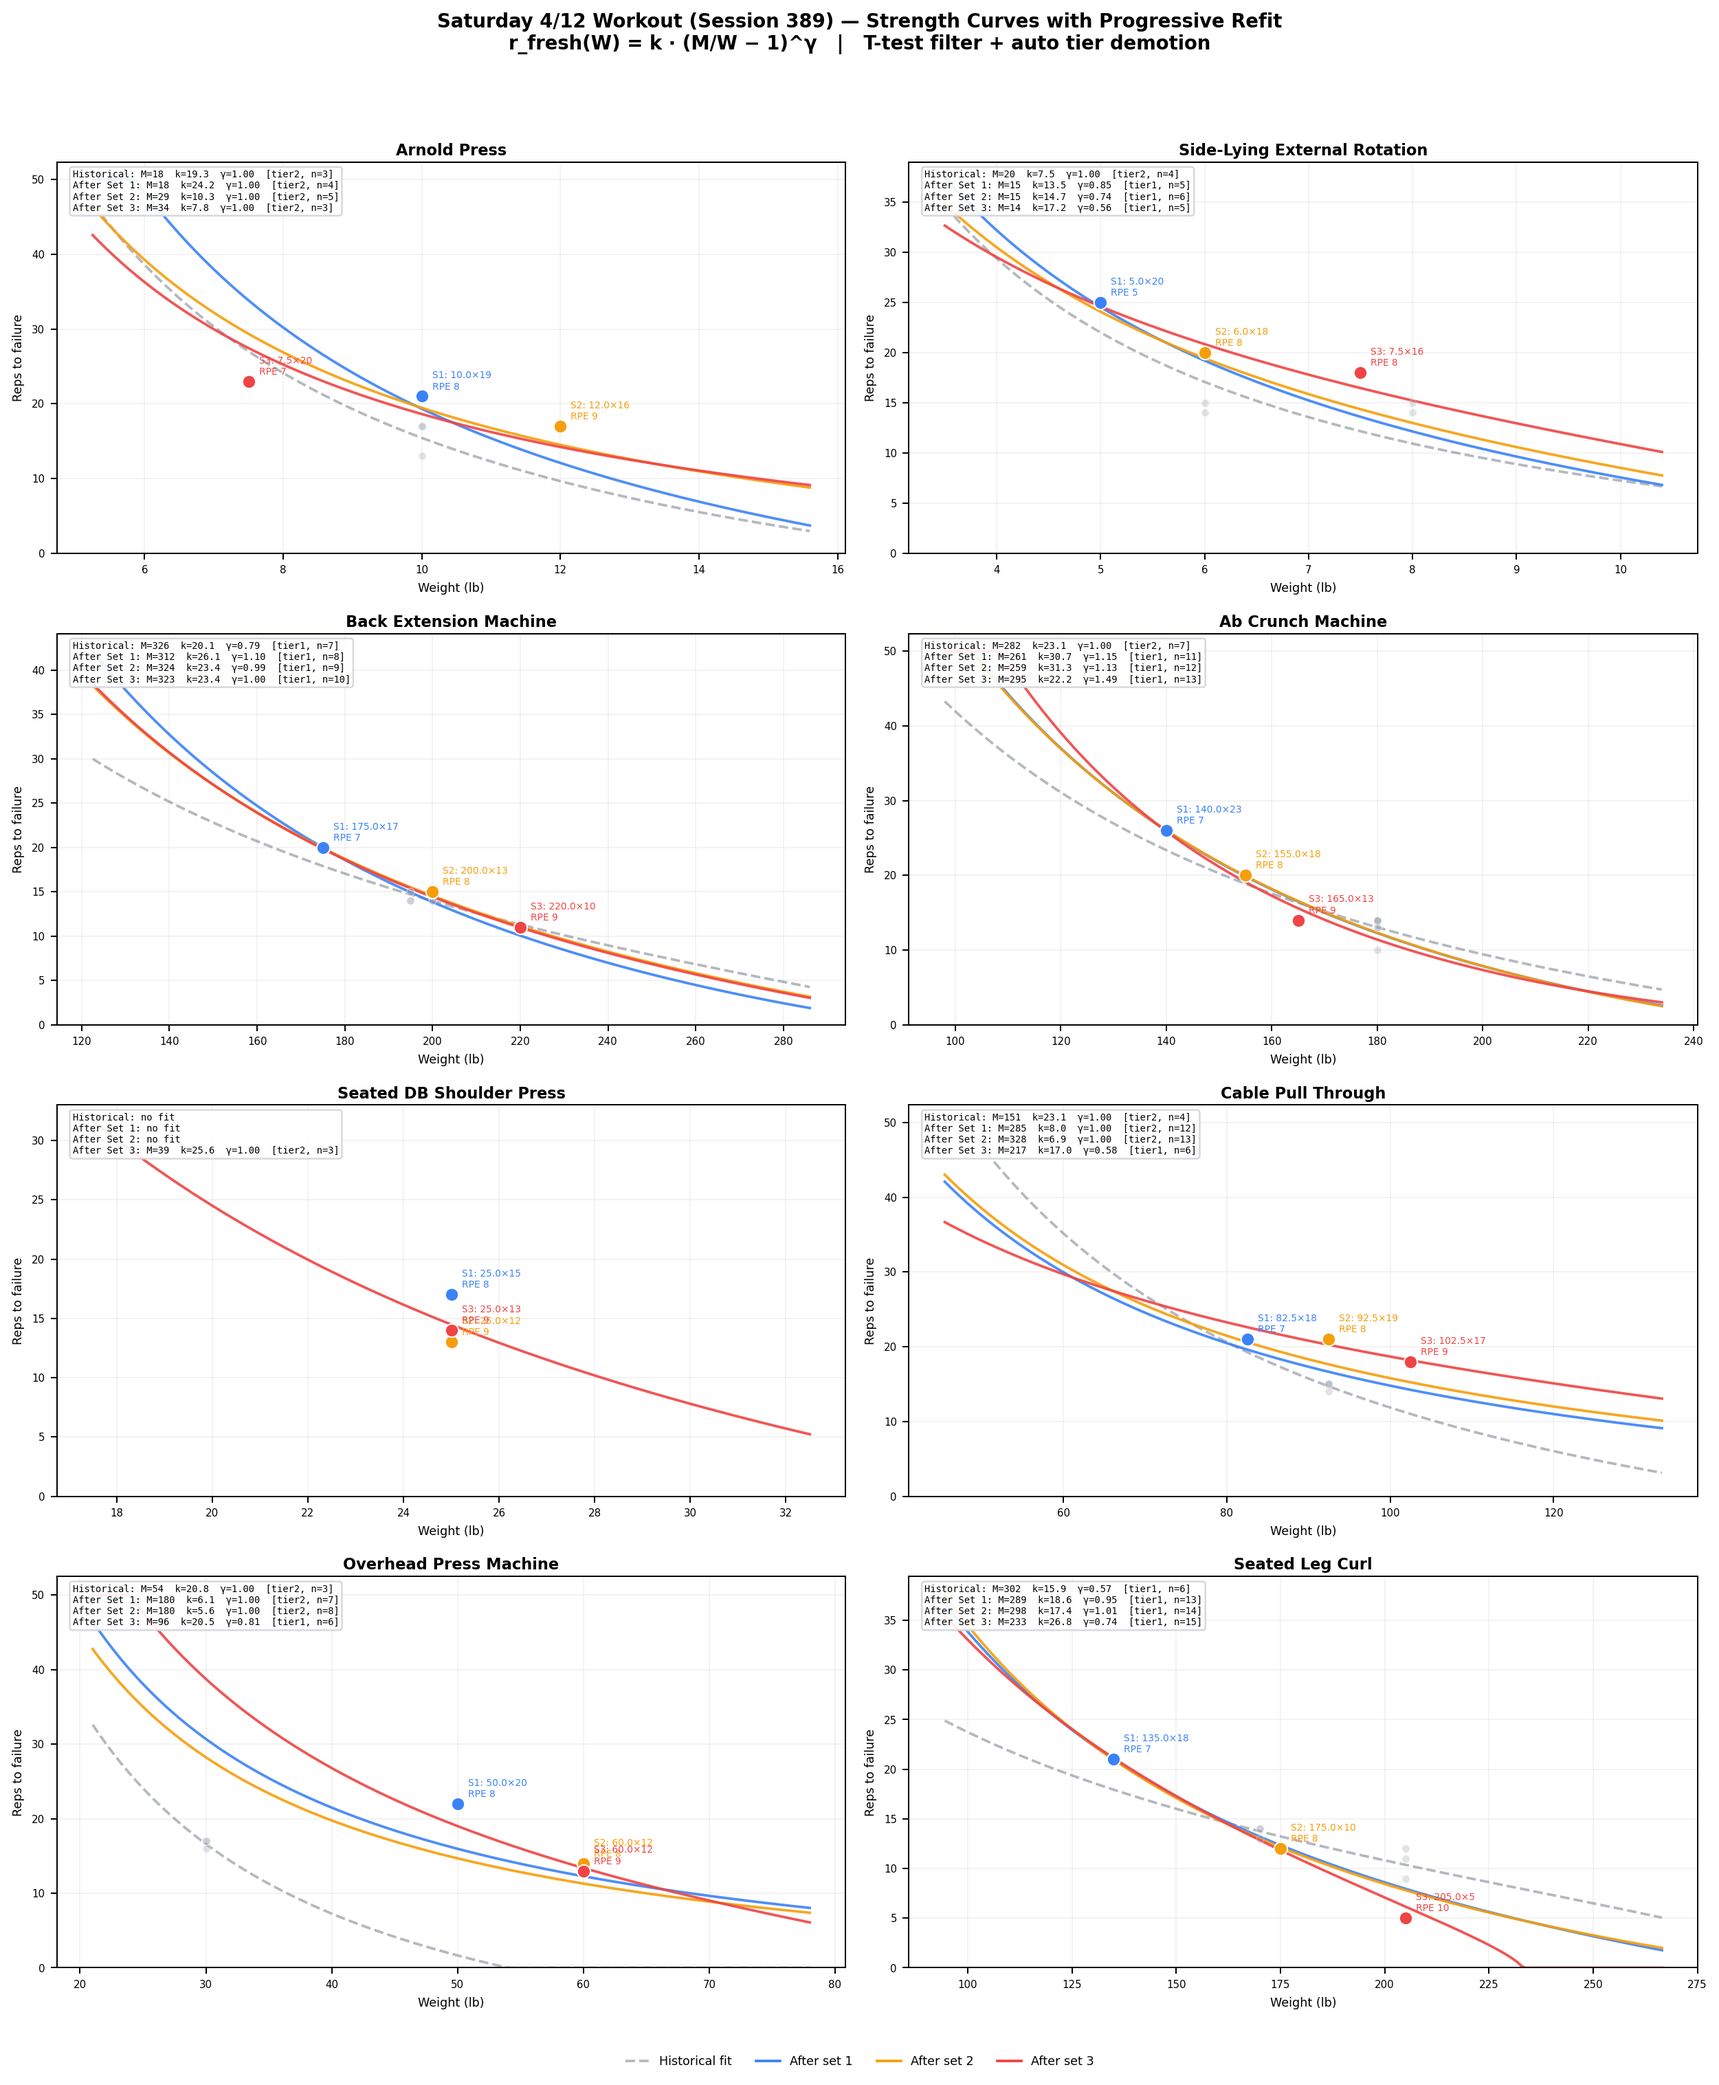
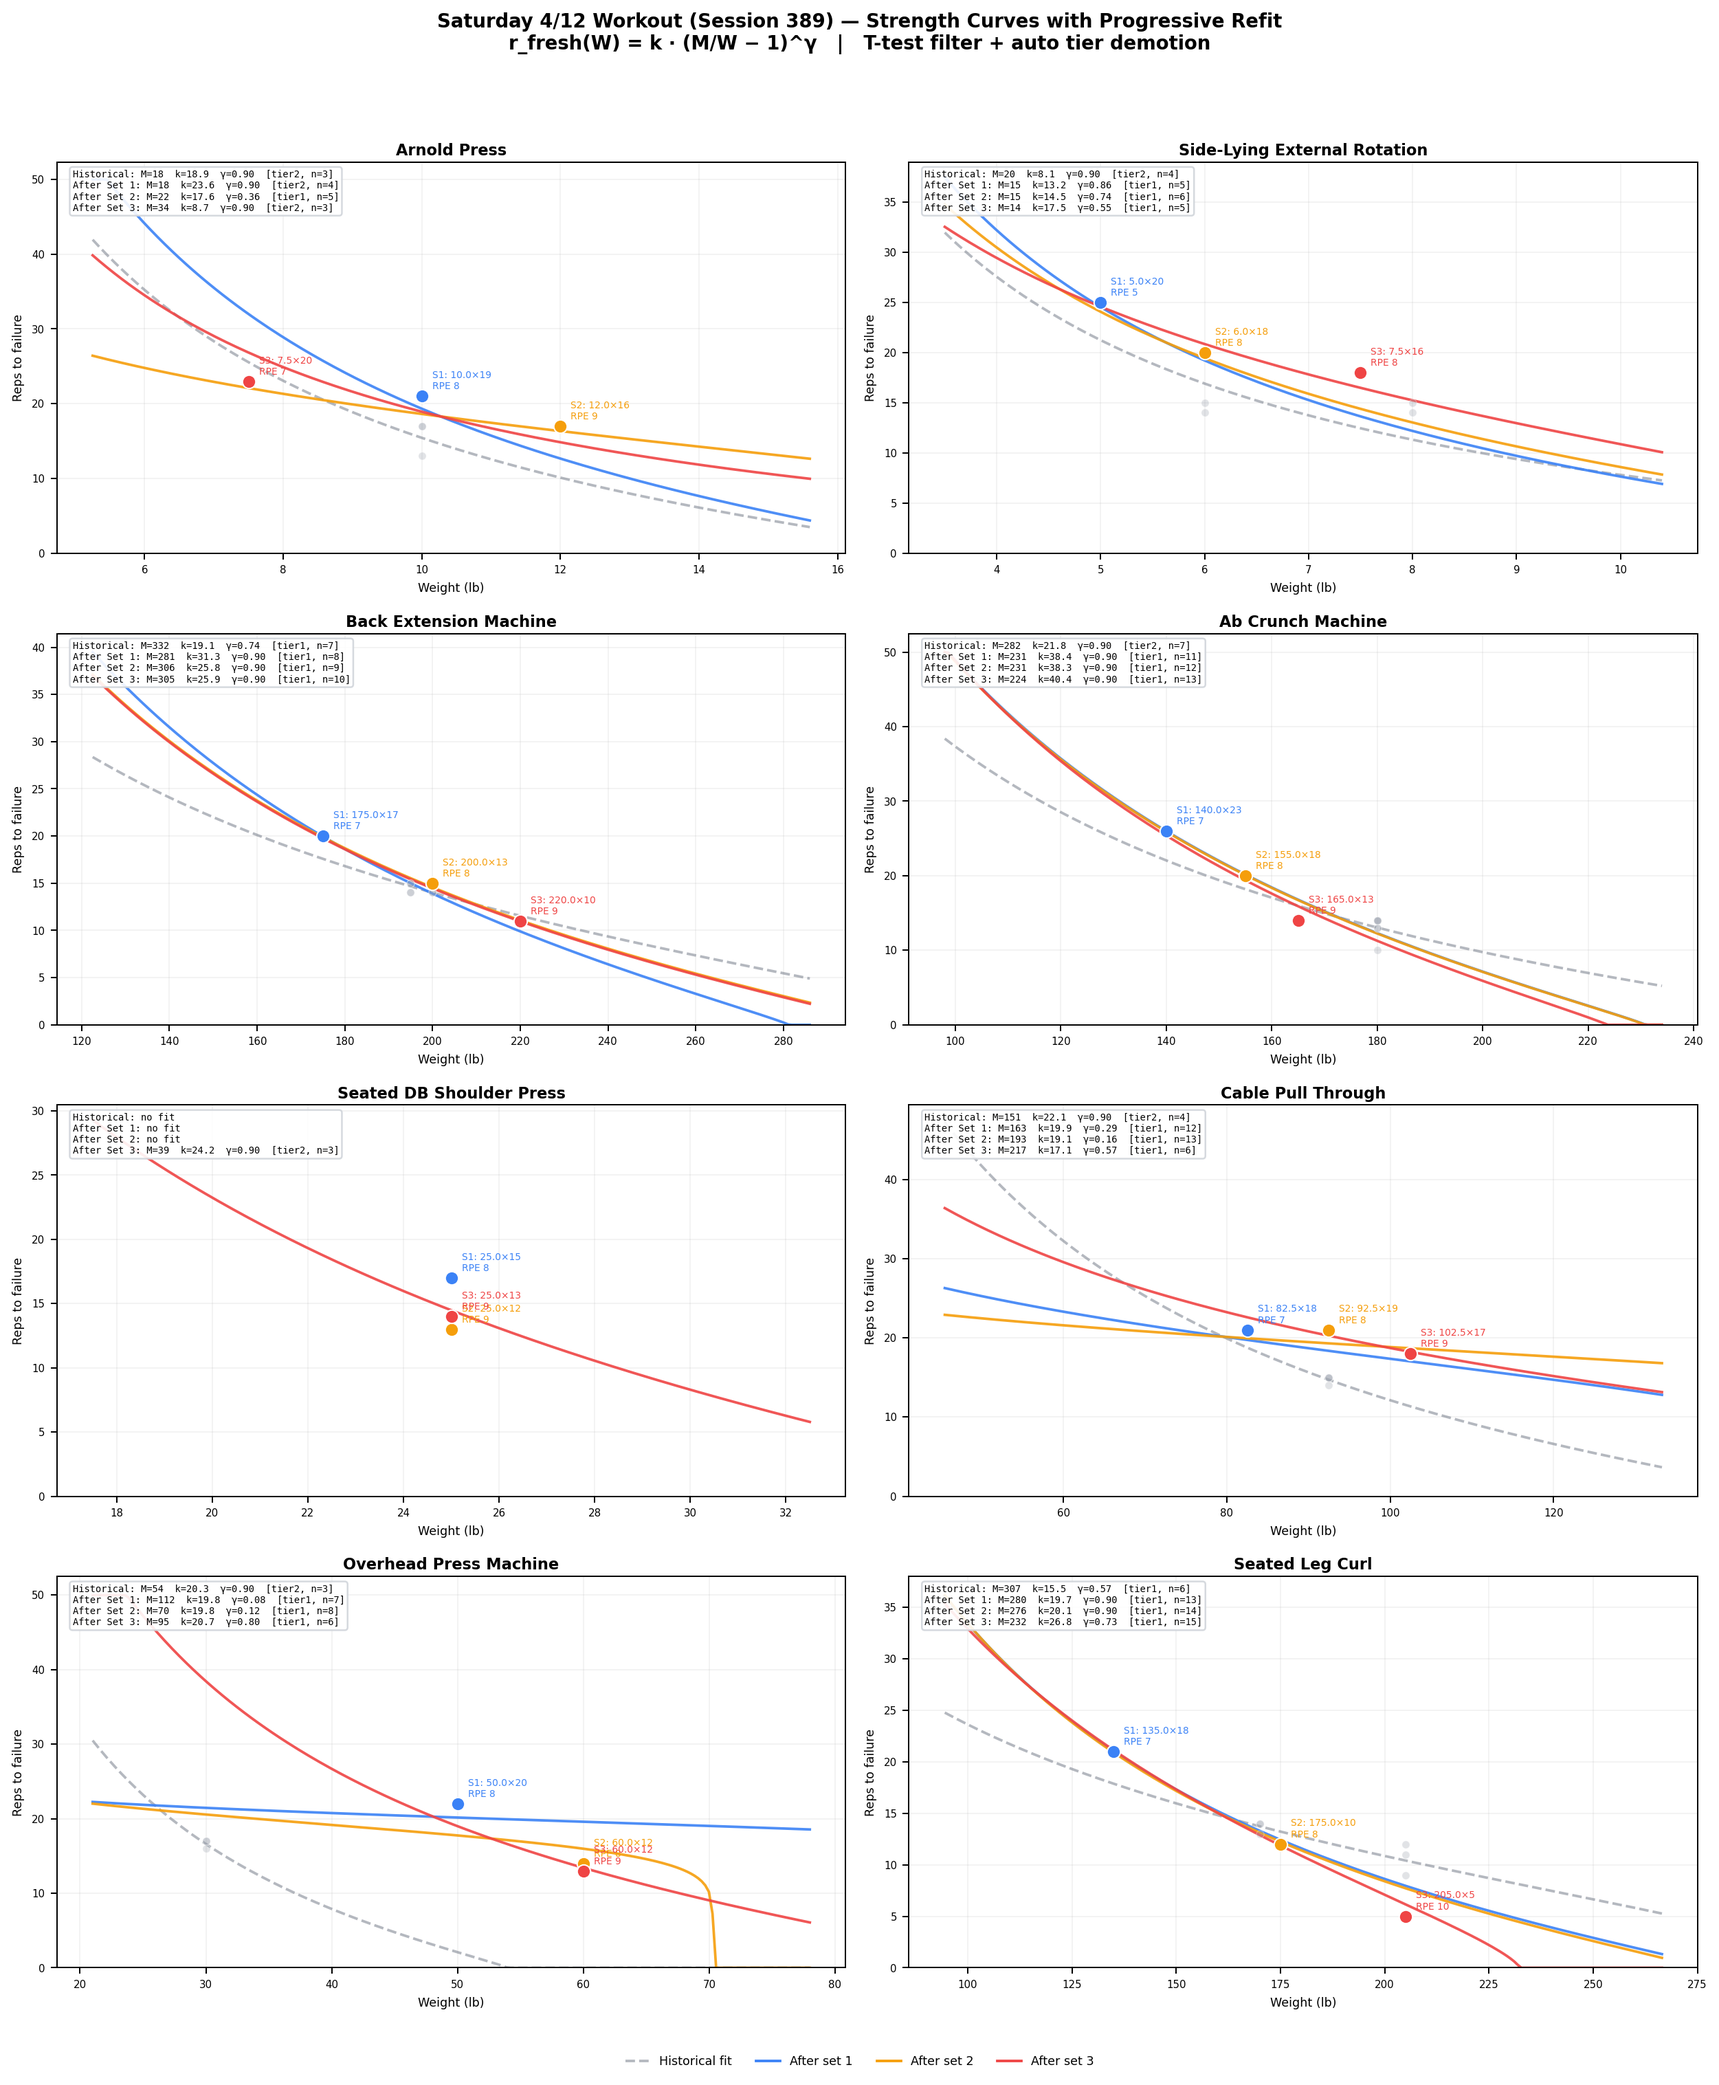
refactor: simplify M regularizer and extract public fitting functions
- Replace identifiability-scaled lambda_M with fixed M_REG_LAMBDA=15.0
- Add fit_from_data() and refit_from_data() public functions that run
  the full fitting pipeline from raw arrays (no DB access needed)
- Rewrite plot_today_curves.py to use production code instead of
  duplicating ~100 lines of fitting logic
- Regenerate plots with gamma cap and simplified regularizer

diff --git a/tools/plot_today_curves.py b/tools/plot_today_curves.py
@@ -19,21 +19,12 @@ from matplotlib.lines import Line2D
 from datetime import date, timedelta
 
 from app.strength_model import (
-    CurveFit,
     fresh_curve,
-    DEFAULT_GAMMA,
     MIN_RPE_FOR_FIT,
-    MIN_SETS_TIER1,
-    MIN_SETS_TIER2,
-    MIN_DISTINCT_WEIGHTS_TIER1,
-    SESSION_TARGET_SHARE,
-    GAMMA_DEMOTE_THRESHOLD,
     _rpe_confidence,
-    _recency_weights,
     _filter_stale_sessions,
-    _estimate_M_bounds,
-    _identifiability_score,
-    _fit_params,
+    fit_from_data,
+    refit_from_data,
 )
 
 
@@ -102,117 +93,6 @@ def load_historical_sets(conn, exercise_id, days=30):
     return historical
 
 
-def fit_from_observations(weights, reps_fail, confidences, ages):
-    """Run our fitting pipeline on arrays of observations."""
-    if len(weights) < MIN_SETS_TIER2:
-        return None
-
-    W = np.array(weights)
-    r = np.array(reps_fail)
-    conf = np.array(confidences)
-    recency = _recency_weights(ages)
-    fit_w = conf * recency
-
-    distinct_w = len(set(round(w, 1) for w in weights))
-    n_obs = len(weights)
-    tier = "tier1" if n_obs >= MIN_SETS_TIER1 and distinct_w >= MIN_DISTINCT_WEIGHTS_TIER1 else "tier2"
-
-    M_lower, M_upper, M_prior = _estimate_M_bounds(weights, reps_fail)
-    ident = _identifiability_score(weights, reps_fail)
-    lambda_M = 10.0 + 20.0 * (1.0 - ident)
-
-    fixed_gamma = DEFAULT_GAMMA if tier == "tier2" else None
-    M_fit, k_fit, gamma_fit, success = _fit_params(
-        W, r, fit_w, M_lower, M_upper, M_prior, lambda_M, fixed_gamma
-    )
-
-    if tier == "tier1" and gamma_fit < GAMMA_DEMOTE_THRESHOLD:
-        tier = "tier2"
-        M_fit, k_fit, gamma_fit, success = _fit_params(
-            W, r, fit_w, M_lower, M_upper, M_prior, lambda_M, DEFAULT_GAMMA
-        )
-
-    predicted = fresh_curve(W, M_fit, k_fit, gamma_fit)
-    residuals = r - predicted
-    rmse = float(np.sqrt(np.mean(residuals**2)))
-
-    return CurveFit(
-        M=M_fit, k=k_fit, gamma=gamma_fit,
-        n_obs=n_obs, rmse=rmse,
-        max_observed_weight=float(np.max(W)),
-        fit_tier=tier, identifiability=ident,
-    )
-
-
-def refit_with_session_boost(hist_w, hist_r, hist_c, hist_a,
-                              new_w, new_r, new_c):
-    """Refit combining historical + new session sets with session boost.
-
-    Runs t-test with session data as anchor so historical sessions that
-    don't match current performance are dropped.
-    """
-    # Combine historical + session, then filter with session as anchor
-    all_w = hist_w + new_w
-    all_r = hist_r + new_r
-    all_c = hist_c + new_c
-    all_a = hist_a + [0.0] * len(new_w)
-
-    all_w, all_r, all_c, all_a = _filter_stale_sessions(
-        all_w, all_r, all_c, all_a
-    )
-
-    if len(all_w) < MIN_SETS_TIER2:
-        return None
-
-    W = np.array(all_w)
-    r = np.array(all_r)
-    conf = np.array(all_c)
-    recency = _recency_weights(all_a)
-    fit_w = conf * recency
-
-    # Session boost — session data (age=0) always kept as anchor
-    n_session = len(new_w)
-    n_prior = len(all_w) - n_session
-    if n_session > 0 and n_prior > 0:
-        prior_total = float(np.sum(fit_w[:n_prior]))
-        session_total = float(np.sum(fit_w[n_prior:]))
-        if session_total > 0 and prior_total > 0:
-            target = SESSION_TARGET_SHARE
-            boost = (target * prior_total) / ((1 - target) * session_total)
-            boost = max(1.0, min(boost, 100.0))
-            fit_w[n_prior:] *= boost
-
-    n_obs = len(all_w)
-    distinct_w = len(set(round(w, 1) for w in all_w))
-    tier = "tier1" if n_obs >= MIN_SETS_TIER1 and distinct_w >= MIN_DISTINCT_WEIGHTS_TIER1 else "tier2"
-
-    M_lower, M_upper, M_prior_est = _estimate_M_bounds(all_w, all_r)
-    ident = _identifiability_score(all_w, all_r)
-    lambda_M = 10.0 + 20.0 * (1.0 - ident)
-
-    fixed_gamma = DEFAULT_GAMMA if tier == "tier2" else None
-    M_fit, k_fit, gamma_fit, success = _fit_params(
-        W, r, fit_w, M_lower, M_upper, M_prior_est, lambda_M, fixed_gamma
-    )
-
-    if tier == "tier1" and gamma_fit < GAMMA_DEMOTE_THRESHOLD:
-        tier = "tier2"
-        M_fit, k_fit, gamma_fit, success = _fit_params(
-            W, r, fit_w, M_lower, M_upper, M_prior_est, lambda_M, DEFAULT_GAMMA
-        )
-
-    predicted = fresh_curve(W, M_fit, k_fit, gamma_fit)
-    residuals = r - predicted
-    rmse = float(np.sqrt(np.mean(residuals**2)))
-
-    return CurveFit(
-        M=M_fit, k=k_fit, gamma=gamma_fit,
-        n_obs=n_obs, rmse=rmse,
-        max_observed_weight=float(np.max(W)),
-        fit_tier=tier, identifiability=ident,
-    )
-
-
 def plot_exercise(ax, ex_data, conn):
     """Plot curves for one exercise on a given axes."""
     name = ex_data["name"]
@@ -226,7 +106,7 @@ def plot_exercise(ax, ex_data, conn):
     raw_hist_a = [float(h["age_days"]) for h in hist]
 
     # Filter historical for the historical-only fit (no session anchor)
-    hist_w, hist_r, hist_c, hist_a = _filter_stale_sessions(
+    hist_w, hist_r, hist_c, hist_a, _ = _filter_stale_sessions(
         raw_hist_w[:], raw_hist_r[:], raw_hist_c[:], raw_hist_a[:]
     )
 
@@ -245,7 +125,7 @@ def plot_exercise(ax, ex_data, conn):
     fits = []
 
     # Historical fit (no session sets, uses historical-only filter)
-    hist_fit = fit_from_observations(hist_w, hist_r, hist_c, hist_a)
+    hist_fit = fit_from_data(hist_w, hist_r, hist_c, hist_a)
     fits.append(("Historical", hist_fit, colors[0]))
 
     # Progressive refits after each set — pass RAW historical so the
@@ -258,7 +138,7 @@ def plot_exercise(ax, ex_data, conn):
         session_r.append(s["reps"] + rir)
         session_c.append(_rpe_confidence(rpe))
 
-        refit = refit_with_session_boost(
+        refit = refit_from_data(
             raw_hist_w[:], raw_hist_r[:], raw_hist_c[:], raw_hist_a[:],
             session_w[:], session_r[:], session_c[:]
         )

diff --git a/backend/app/strength_model.py b/backend/app/strength_model.py
@@ -35,6 +35,9 @@ DEFAULT_GAMMA = 0.9
 GAMMA_PRIOR = 0.9
 GAMMA_REG_LAMBDA = 3.0  # per-observation strength (scaled by mean fit_weight)
 
+# M regularization: fixed strength (no longer scaled by identifiability)
+M_REG_LAMBDA = 15.0
+
 # Session refit: same-day observations get boosted to this share of total weight
 SESSION_TARGET_SHARE = 0.70
 
@@ -483,11 +486,10 @@ def fit_curve(
     # Bounds and regularization
     M_lower, M_upper, M_prior = _estimate_M_bounds(eff_weights, reps_to_failure)
     ident = _identifiability_score(eff_weights, reps_to_failure)
-    lambda_M = 10.0 + 20.0 * (1.0 - ident)
 
     fixed_gamma = DEFAULT_GAMMA if tier == "tier2" else None
     M_fit, k_fit, gamma_fit, success = _fit_params(
-        W, r, fit_w, M_lower, M_upper, M_prior, lambda_M, fixed_gamma
+        W, r, fit_w, M_lower, M_upper, M_prior, M_REG_LAMBDA, fixed_gamma
     )
 
     # Compute RMSE
@@ -504,6 +506,133 @@ def fit_curve(
         max_observed_weight=float(np.max(W)),
         fit_tier=tier,
         identifiability=ident,
+    )
+
+
+def fit_from_data(
+    eff_weights: list[float],
+    reps_to_failure: list[float],
+    confidences: list[float],
+    ages_days: list[float],
+) -> CurveFit | None:
+    """Fit a strength curve from raw observation arrays (no DB access).
+
+    Runs the full pipeline: t-test filter → tier determination → curve fit.
+    Useful for plotting and analysis without needing a DB session.
+    """
+    eff_weights, reps_to_failure, confidences, ages_days, n_sessions_kept = (
+        _filter_stale_sessions(eff_weights, reps_to_failure, confidences, ages_days)
+    )
+
+    n_obs = len(eff_weights)
+    if n_obs < MIN_SETS_TIER2:
+        return None
+
+    W = np.array(eff_weights)
+    r = np.array(reps_to_failure)
+    conf = np.array(confidences)
+    recency = _recency_weights(ages_days)
+    fit_w = conf * recency
+
+    distinct_w = len(set(round(w, 1) for w in eff_weights))
+    tier = (
+        "tier1"
+        if (n_obs >= MIN_SETS_TIER1
+            and distinct_w >= MIN_DISTINCT_WEIGHTS_TIER1
+            and n_sessions_kept >= 2)
+        else "tier2"
+    )
+
+    M_lower, M_upper, M_prior = _estimate_M_bounds(eff_weights, reps_to_failure)
+    ident = _identifiability_score(eff_weights, reps_to_failure)
+
+    fixed_gamma = DEFAULT_GAMMA if tier == "tier2" else None
+    M_fit, k_fit, gamma_fit, success = _fit_params(
+        W, r, fit_w, M_lower, M_upper, M_prior, M_REG_LAMBDA, fixed_gamma
+    )
+
+    predicted = fresh_curve(W, M_fit, k_fit, gamma_fit)
+    residuals = r - predicted
+    rmse = float(np.sqrt(np.mean(residuals**2)))
+
+    return CurveFit(
+        M=M_fit, k=k_fit, gamma=gamma_fit,
+        n_obs=n_obs, rmse=rmse,
+        max_observed_weight=float(np.max(W)),
+        fit_tier=tier, identifiability=ident,
+    )
+
+
+def refit_from_data(
+    hist_weights: list[float],
+    hist_reps: list[float],
+    hist_confs: list[float],
+    hist_ages: list[float],
+    session_weights: list[float],
+    session_reps: list[float],
+    session_confs: list[float],
+) -> CurveFit | None:
+    """Refit combining historical + session data with t-test and session boost.
+
+    Session data (age=0) becomes the t-test anchor. Historical sessions that
+    don't match current performance are dropped. No DB access needed.
+    """
+    all_w = hist_weights + session_weights
+    all_r = hist_reps + session_reps
+    all_c = hist_confs + session_confs
+    all_a = hist_ages + [0.0] * len(session_weights)
+
+    all_w, all_r, all_c, all_a, n_sessions_kept = _filter_stale_sessions(
+        all_w, all_r, all_c, all_a
+    )
+
+    n_obs = len(all_w)
+    if n_obs < MIN_SETS_TIER2:
+        return None
+
+    W = np.array(all_w)
+    r = np.array(all_r)
+    conf = np.array(all_c)
+    recency = _recency_weights(all_a)
+    fit_w = conf * recency
+
+    n_session = len(session_weights)
+    n_prior = n_obs - n_session
+    if n_session > 0 and n_prior > 0:
+        prior_total = float(np.sum(fit_w[:n_prior]))
+        session_total = float(np.sum(fit_w[n_prior:]))
+        if session_total > 0 and prior_total > 0:
+            target = SESSION_TARGET_SHARE
+            boost = (target * prior_total) / ((1 - target) * session_total)
+            boost = max(1.0, min(boost, 100.0))
+            fit_w[n_prior:] *= boost
+
+    distinct_w = len(set(round(w, 1) for w in all_w))
+    tier = (
+        "tier1"
+        if (n_obs >= MIN_SETS_TIER1
+            and distinct_w >= MIN_DISTINCT_WEIGHTS_TIER1
+            and n_sessions_kept >= 2)
+        else "tier2"
+    )
+
+    M_lower, M_upper, M_prior = _estimate_M_bounds(all_w, all_r)
+    ident = _identifiability_score(all_w, all_r)
+
+    fixed_gamma = DEFAULT_GAMMA if tier == "tier2" else None
+    M_fit, k_fit, gamma_fit, success = _fit_params(
+        W, r, fit_w, M_lower, M_upper, M_prior, M_REG_LAMBDA, fixed_gamma
+    )
+
+    predicted = fresh_curve(W, M_fit, k_fit, gamma_fit)
+    residuals = r - predicted
+    rmse = float(np.sqrt(np.mean(residuals**2)))
+
+    return CurveFit(
+        M=M_fit, k=k_fit, gamma=gamma_fit,
+        n_obs=n_obs, rmse=rmse,
+        max_observed_weight=float(np.max(W)),
+        fit_tier=tier, identifiability=ident,
     )
 
 
@@ -988,11 +1117,10 @@ def refit_with_observations(
 
     M_lower, M_upper, M_prior = _estimate_M_bounds(eff_weights, reps_to_failure)
     ident = _identifiability_score(eff_weights, reps_to_failure)
-    lambda_M = 10.0 + 20.0 * (1.0 - ident)
 
     fixed_gamma = DEFAULT_GAMMA if tier == "tier2" else None
     M_fit, k_fit, gamma_fit, success = _fit_params(
-        W, r, fit_w, M_lower, M_upper, M_prior, lambda_M, fixed_gamma
+        W, r, fit_w, M_lower, M_upper, M_prior, M_REG_LAMBDA, fixed_gamma
     )
 
     predicted = fresh_curve(W, M_fit, k_fit, gamma_fit)
